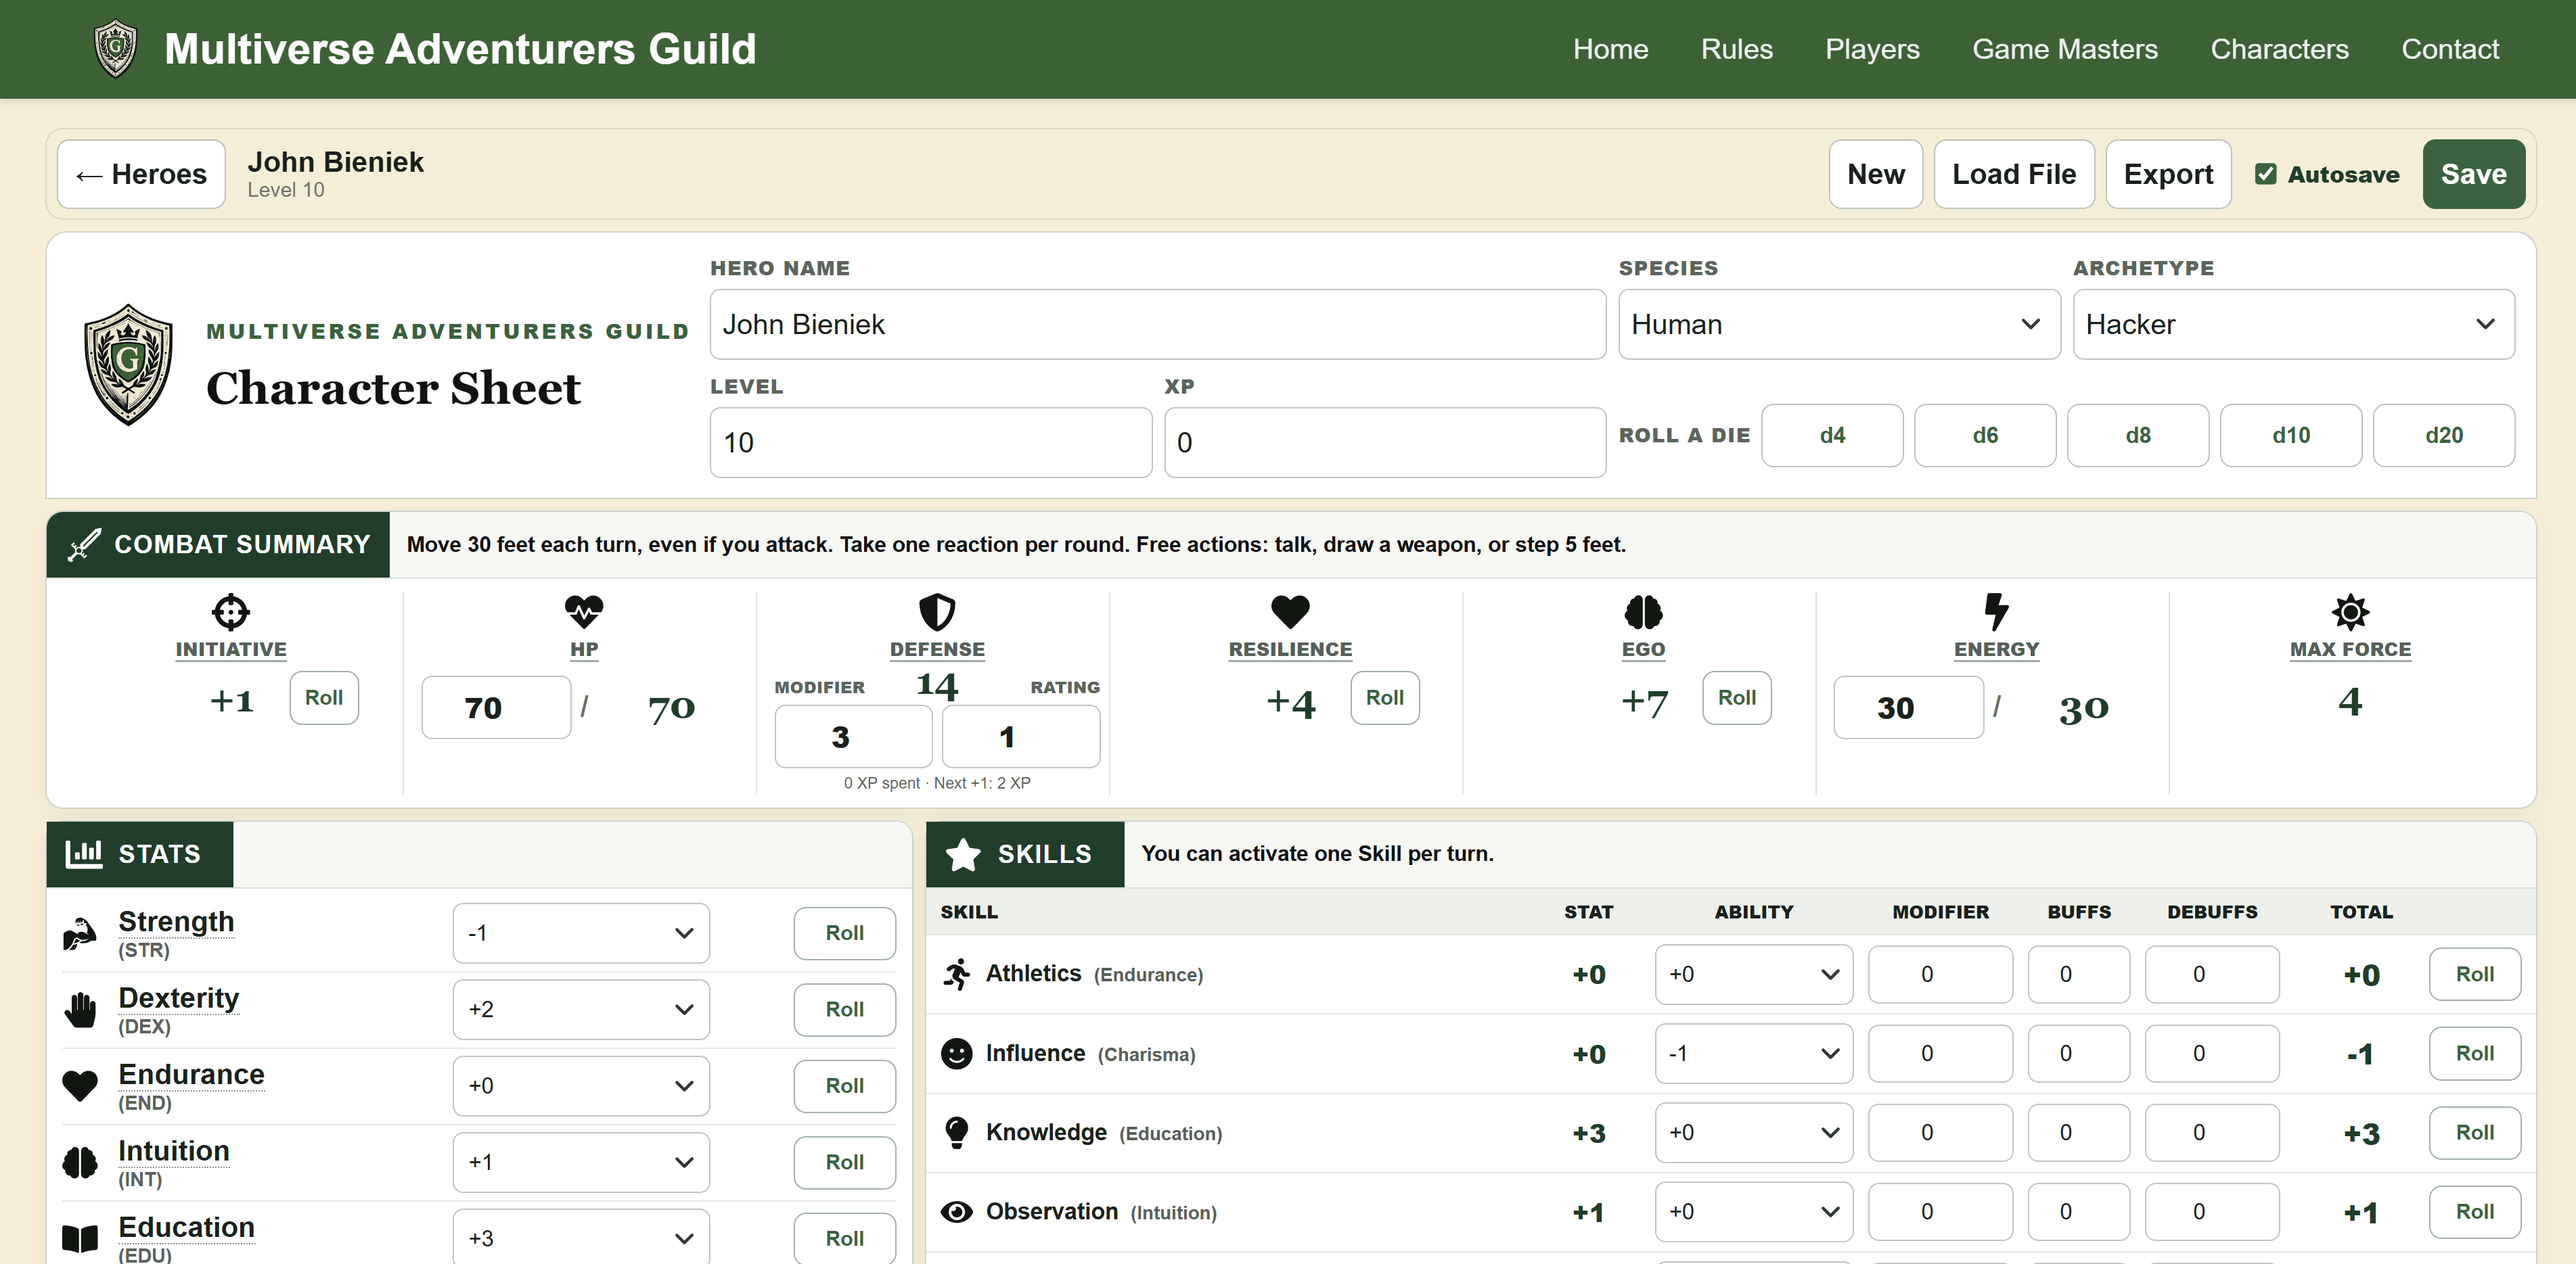
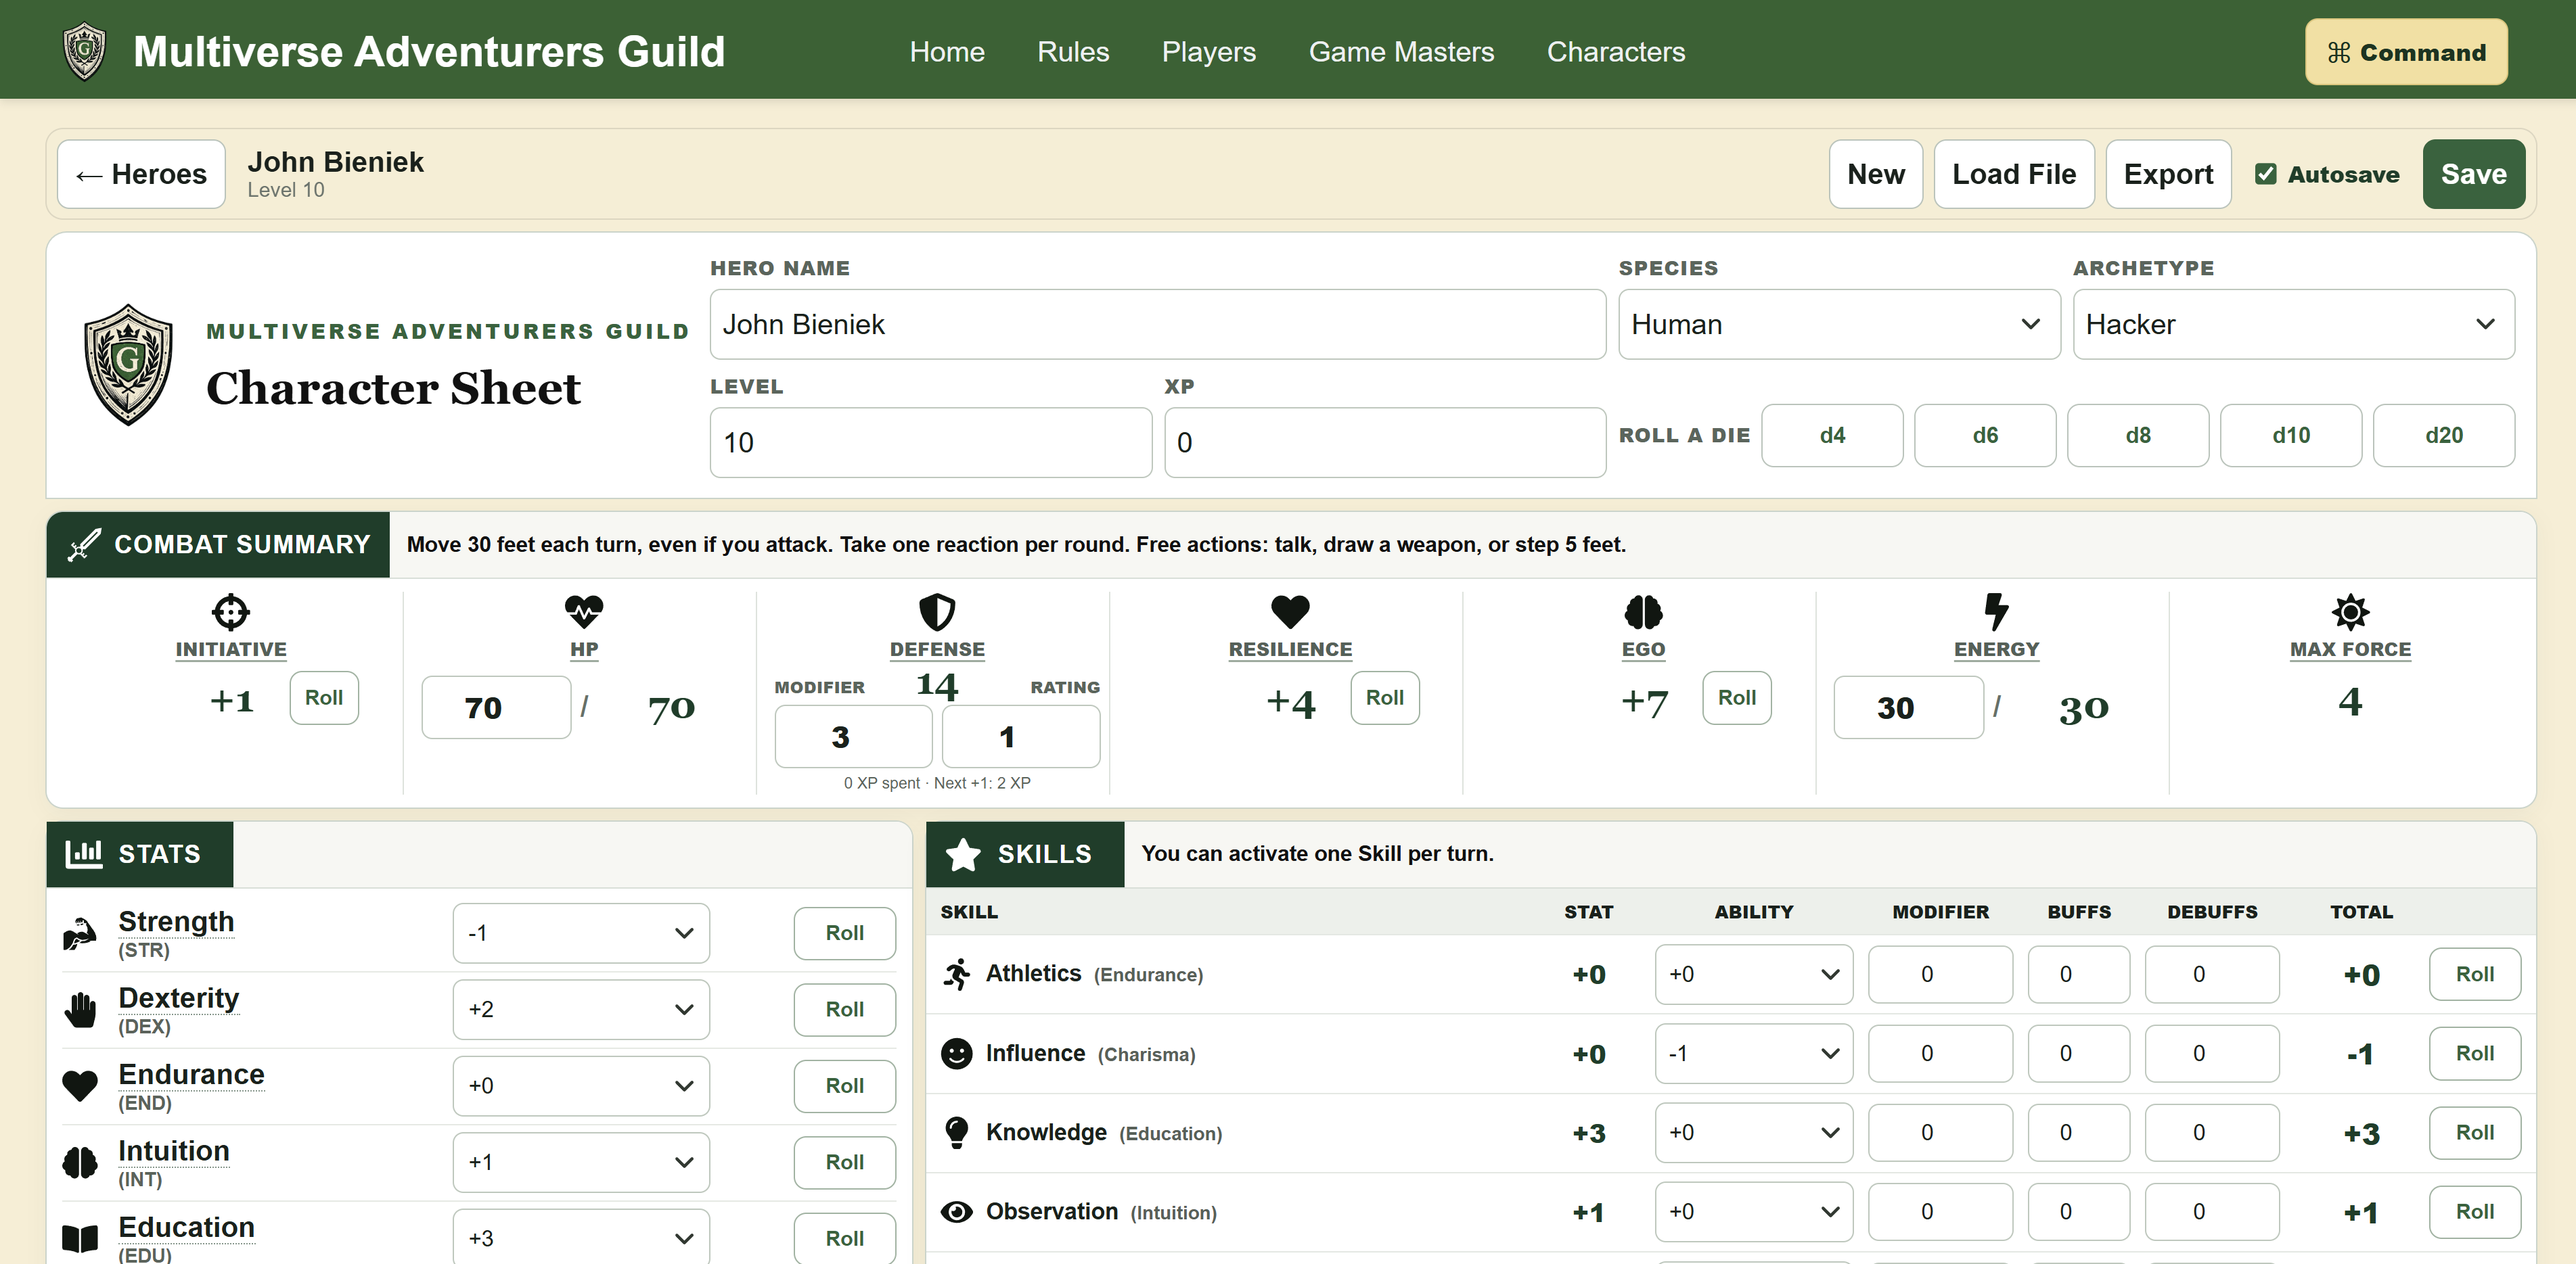
Refine MAG voice layout and imagery

diff --git a/src/app/pages/multiverse-adventurers-guild/multiverse-adventurers-guild.html b/src/app/pages/multiverse-adventurers-guild/multiverse-adventurers-guild.html
@@ -84,17 +84,45 @@
     </section>
 
     <section class="content-section accessibility-section">
-      <div class="accessibility-showcase">
-        <div class="section-intro">
-          <p class="section-label">A consistent voice interface</p>
-          <h2>The command control is always where a player expects it.</h2>
-          <p>
-            A command button remains available at the top right throughout the application. It opens
-            a focused window where the Start Listening control also stays in the same place, giving a
-            blind player a dependable path into every interaction. Players can type a command or say
-            it aloud, including “read this section,” “open the character sheet,” “roll a die,” “make
-            a character,” or “what are my weapons?”
-          </p>
+      <div class="section-intro">
+        <p class="section-label">A consistent voice interface</p>
+        <h2>The command control is always where a player expects it.</h2>
+        <p>
+          A command button remains available at the top right throughout the application. It opens
+          a focused window where the Start Listening control also stays in the same place, giving a
+          blind player a dependable path into every interaction. Players can type a command or say
+          it aloud, including “read this section,” “open the character sheet,” “roll a die,” “make
+          a character,” or “what are my weapons?”
+        </p>
+      </div>
+
+      <div class="accessibility-layout">
+        <div class="feature-grid accessibility-features">
+          <article>
+            <iconify-icon icon="mdi:gesture-tap-button"></iconify-icon>
+            <h3>Predictable controls</h3>
+            <p>
+              The command and listening buttons keep stable positions, reducing the need to search
+              an unfamiliar layout before giving an instruction.
+            </p>
+          </article>
+          <article>
+            <iconify-icon icon="mdi:account-voice"></iconify-icon>
+            <h3>Spoken status</h3>
+            <p>
+              The first time a player presses Start Listening, it announces that speech processing
+              is loading. Distinct pings mark when listening begins and ends, making the current state
+              clear without sight.
+            </p>
+          </article>
+          <article>
+            <iconify-icon icon="mdi:keyboard-outline"></iconify-icon>
+            <h3>Type or speak</h3>
+            <p>
+              The same natural-language commands work through text and speech, so each player can use
+              the input method that fits their needs and environment.
+            </p>
+          </article>
         </div>
 
         <figure class="screenshot command-window-shot">
@@ -104,34 +132,6 @@
           />
           <figcaption>One consistent place to type, speak, and hear game commands</figcaption>
         </figure>
-      </div>
-
-      <div class="feature-grid">
-        <article>
-          <iconify-icon icon="mdi:gesture-tap-button"></iconify-icon>
-          <h3>Predictable controls</h3>
-          <p>
-            The command and listening buttons keep stable positions, reducing the need to search
-            an unfamiliar layout before giving an instruction.
-          </p>
-        </article>
-        <article>
-          <iconify-icon icon="mdi:account-voice"></iconify-icon>
-          <h3>Spoken status</h3>
-          <p>
-            The first time a player presses Start Listening, it announces that speech processing
-            is loading. Distinct pings mark when listening begins and ends, making the current state
-            clear without sight.
-          </p>
-        </article>
-        <article>
-          <iconify-icon icon="mdi:keyboard-outline"></iconify-icon>
-          <h3>Type or speak</h3>
-          <p>
-            The same natural-language commands work through text and speech, so each player can use
-            the input method that fits their needs and environment.
-          </p>
-        </article>
       </div>
     </section>
 

diff --git a/src/app/pages/multiverse-adventurers-guild/multiverse-adventurers-guild.css b/src/app/pages/multiverse-adventurers-guild/multiverse-adventurers-guild.css
@@ -71,8 +71,8 @@ p { color: #465568; line-height: 1.68; }
 code { padding: 0.1em 0.32em; border-radius: 0.25rem; color: #283a51; background: #eef2f6; }
 .architecture-note { margin: 24px 0 0; padding: 18px 20px; border-left: 3px solid #527ca8; background: #f2f5f8; }
 .accessibility-section { border-top: 4px solid #315d91; }
-.accessibility-showcase { display: grid; grid-template-columns: minmax(0, 0.8fr) minmax(420px, 1.2fr); gap: 28px; align-items: center; margin-bottom: 28px; }
-.accessibility-showcase .section-intro { margin-bottom: 0; }
+.accessibility-layout { display: grid; grid-template-columns: minmax(320px, 0.75fr) minmax(0, 1.25fr); gap: 22px; align-items: start; }
+.accessibility-features { grid-template-columns: 1fr; gap: 14px; }
 .command-window-shot { box-shadow: 0 10px 28px rgba(23, 32, 51, 0.09); }
 .accessibility-statement { margin: 24px 0 0; padding: 20px; border-left: 4px solid #315d91; color: #283a51; background: #eef4fa; font-weight: 750; }
 
@@ -104,7 +104,7 @@ code { padding: 0.1em 0.32em; border-radius: 0.25rem; color: #283a51; background
 }
 
 @media (max-width: 980px) {
-  .hero, .sheet-layout, .accessibility-showcase, .technology-section, .links-section { grid-template-columns: 1fr; }
+  .hero, .sheet-layout, .accessibility-layout, .technology-section, .links-section { grid-template-columns: 1fr; }
   .feature-grid { grid-template-columns: 1fr; }
   .process-grid, .voice-play-grid { grid-template-columns: repeat(2, 1fr); }
   .comparison-grid { grid-template-columns: 1fr; }
